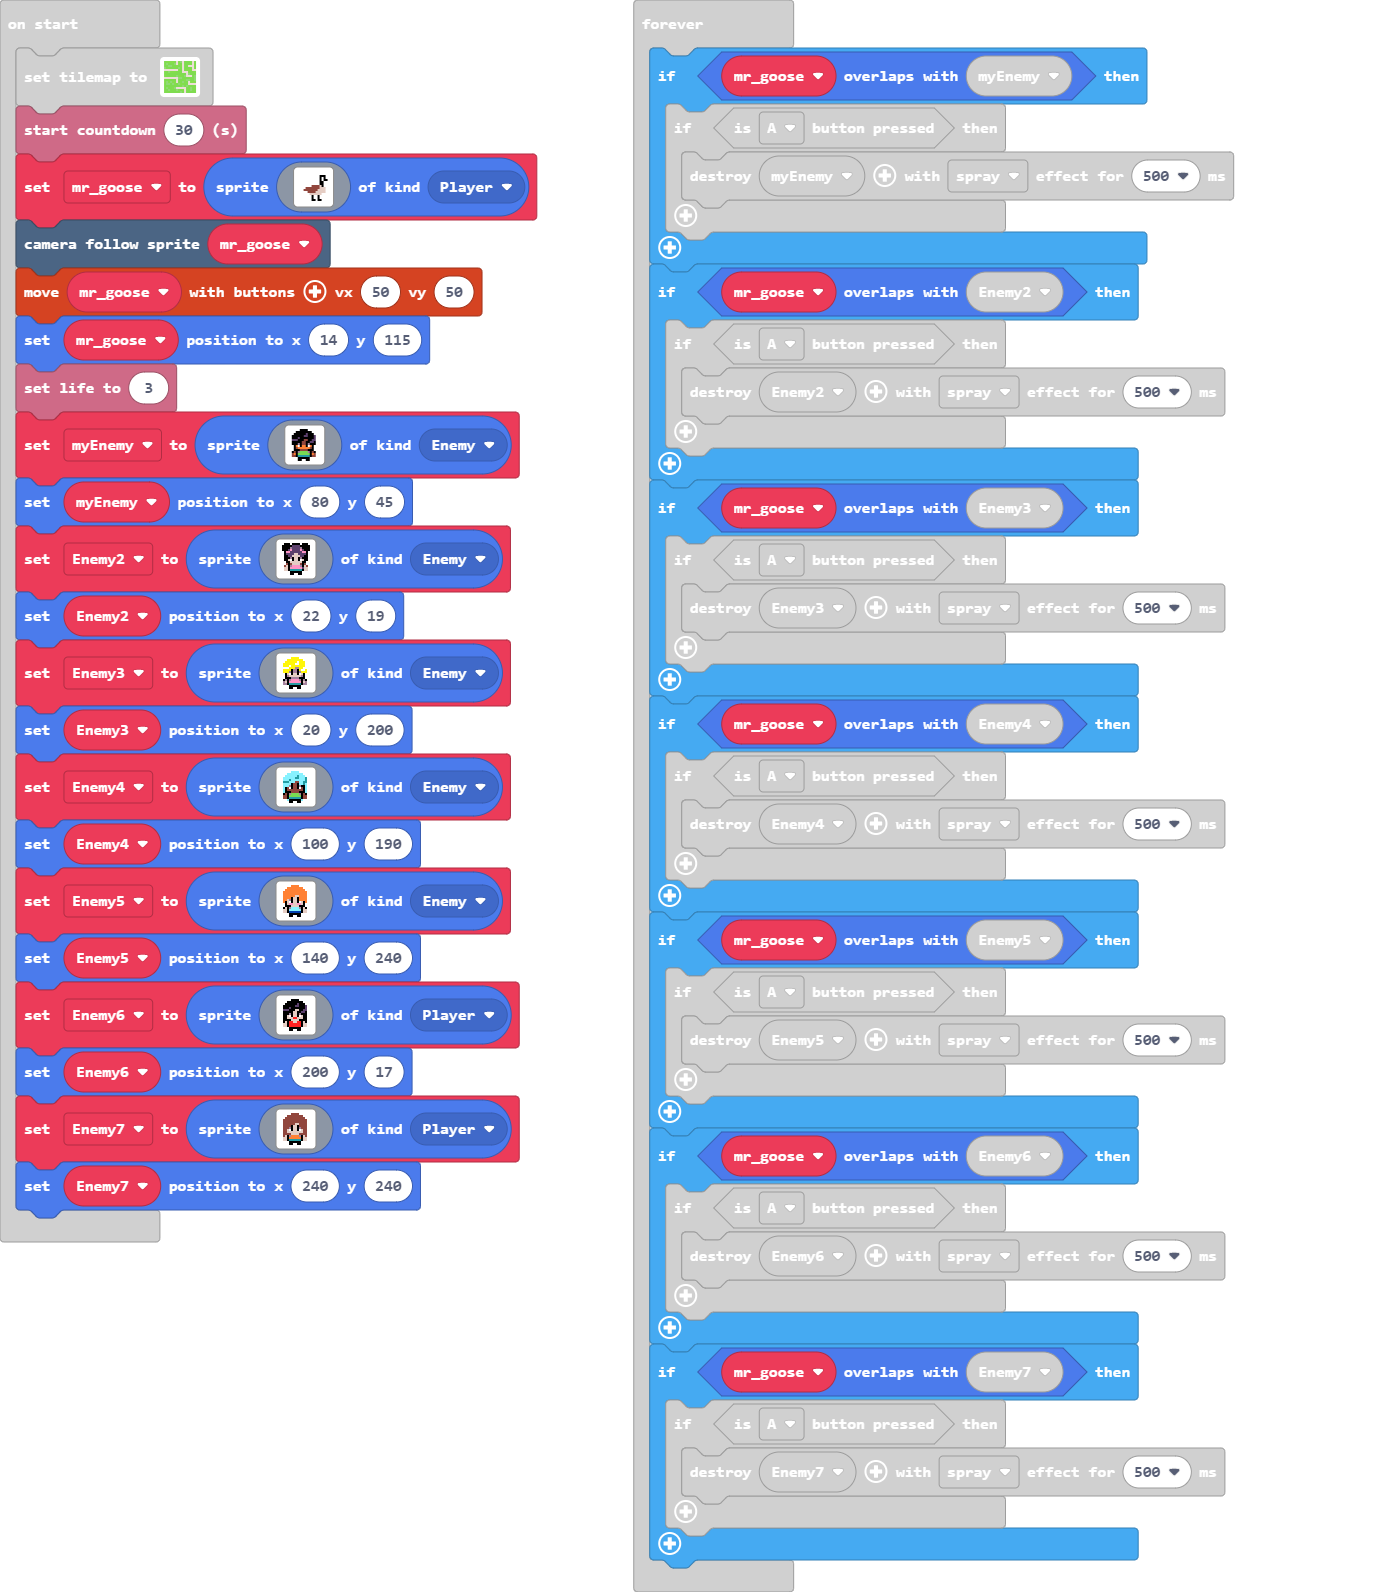
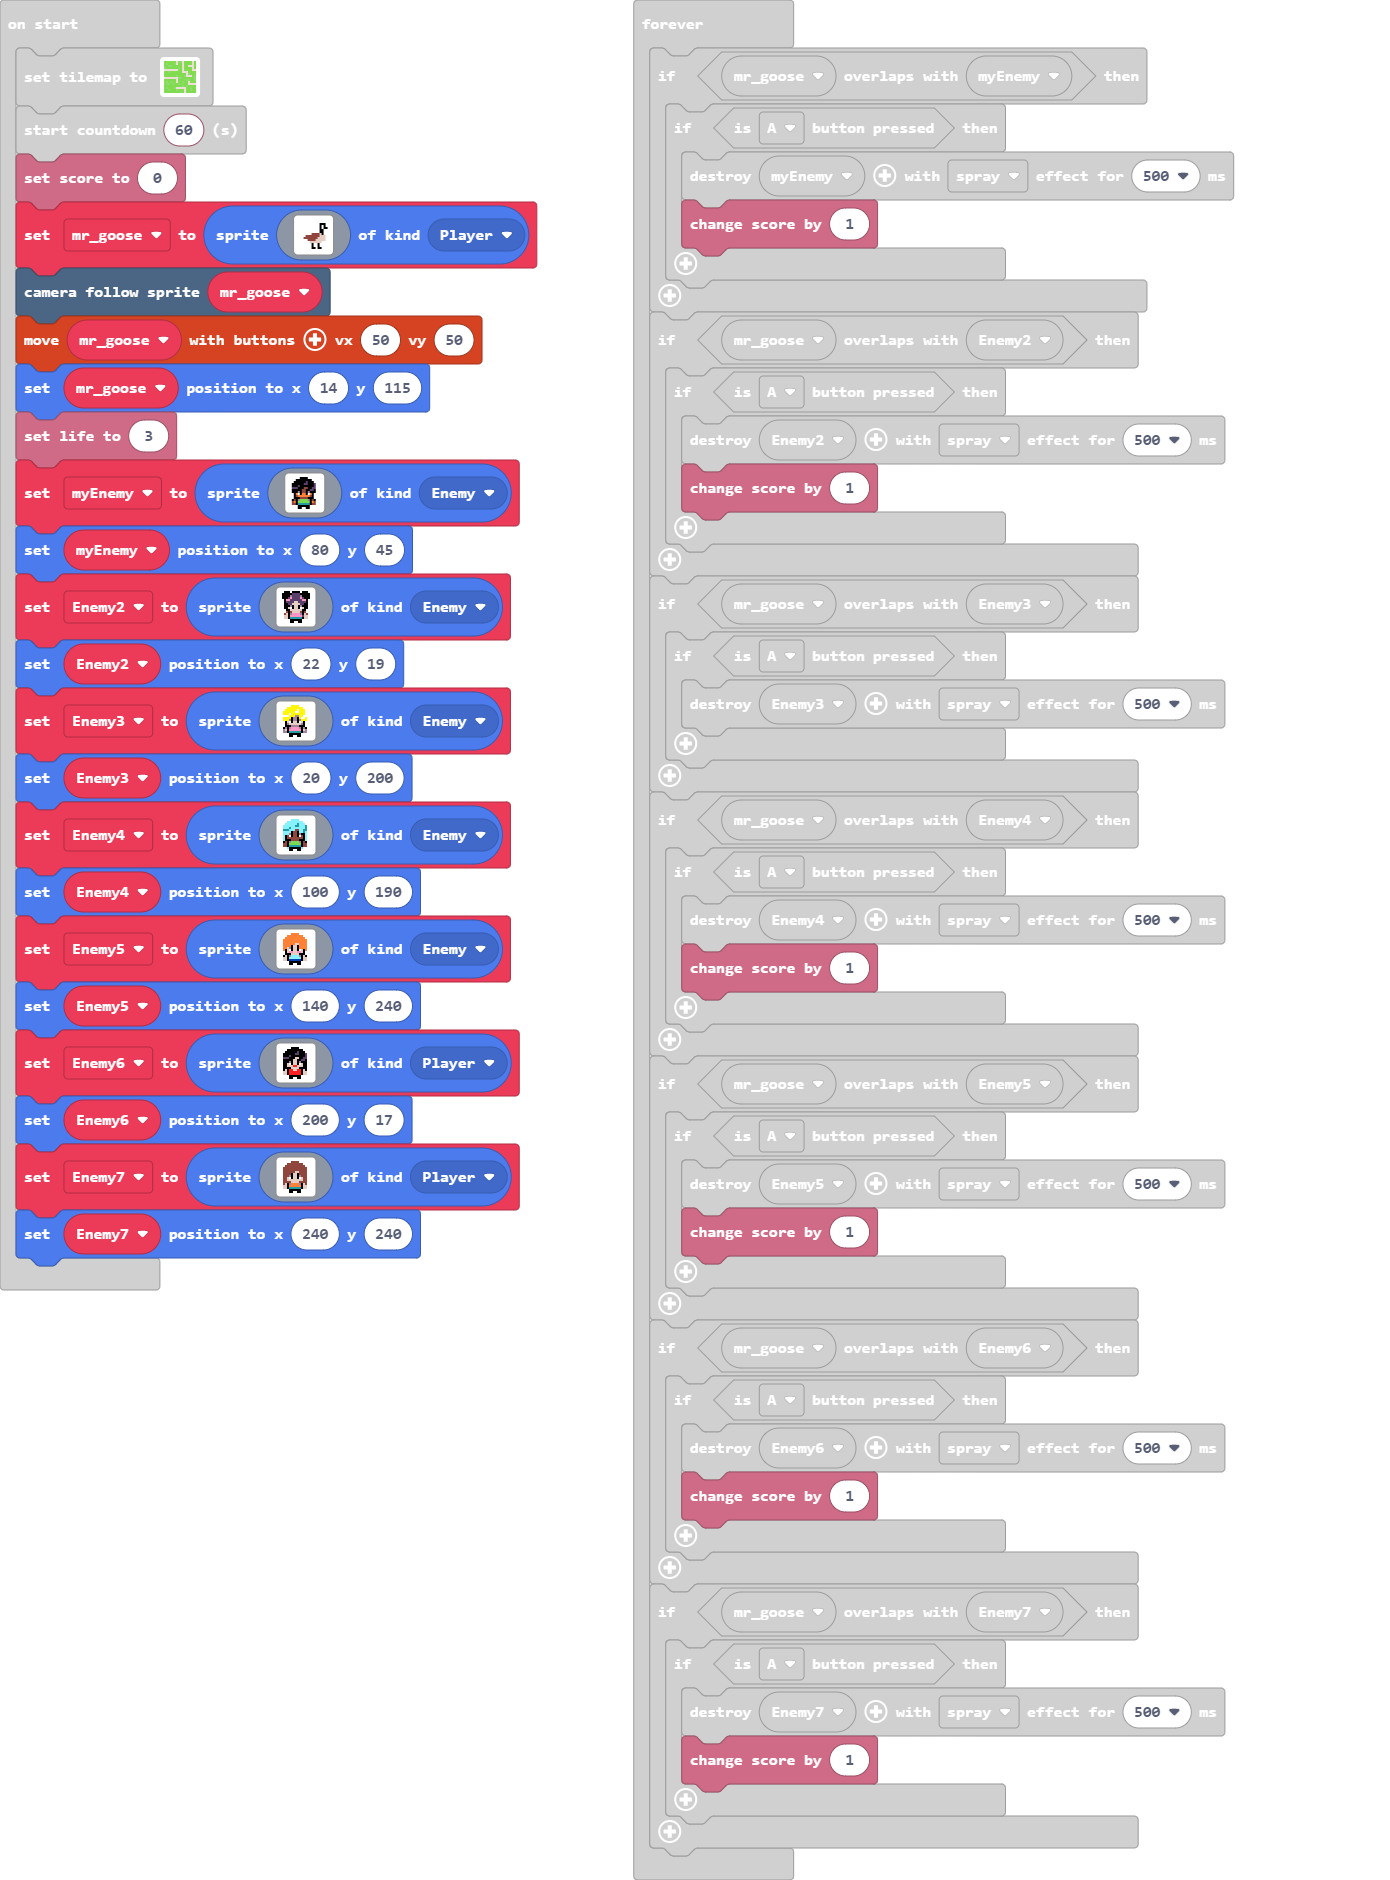
Update main.blocks, main.ts

diff --git a/main.ts b/main.ts
@@ -21,7 +21,8 @@ tiles.setTilemap(tiles.createTilemap(hex`100010000201010101010401030402020202040
     . . . . . . . . . . 2 . . . . . 
     . . . . . . . . . . 2 . . . . . 
     `, [myTiles.transparency16,sprites.castle.tileGrass3,sprites.castle.tileGrass1,sprites.castle.tileGrass2,sprites.builtin.brick], TileScale.Sixteen))
-info.startCountdown(30)
+info.startCountdown(60)
+info.setScore(0)
 let mr_goose = sprites.create(img`
     . . . . . . . . . . . . . . . . 
     . . . . . . . . . . . . . . . . 
@@ -181,11 +182,13 @@ forever(function () {
     if (mr_goose.overlapsWith(myEnemy)) {
         if (controller.A.isPressed()) {
             myEnemy.destroy(effects.spray, 500)
+            info.changeScoreBy(1)
         }
     }
     if (mr_goose.overlapsWith(Enemy2)) {
         if (controller.A.isPressed()) {
             Enemy2.destroy(effects.spray, 500)
+            info.changeScoreBy(1)
         }
     }
     if (mr_goose.overlapsWith(Enemy3)) {
@@ -196,21 +199,25 @@ forever(function () {
     if (mr_goose.overlapsWith(Enemy4)) {
         if (controller.A.isPressed()) {
             Enemy4.destroy(effects.spray, 500)
+            info.changeScoreBy(1)
         }
     }
     if (mr_goose.overlapsWith(Enemy5)) {
         if (controller.A.isPressed()) {
             Enemy5.destroy(effects.spray, 500)
+            info.changeScoreBy(1)
         }
     }
     if (mr_goose.overlapsWith(Enemy6)) {
         if (controller.A.isPressed()) {
             Enemy6.destroy(effects.spray, 500)
+            info.changeScoreBy(1)
         }
     }
     if (mr_goose.overlapsWith(Enemy7)) {
         if (controller.A.isPressed()) {
             Enemy7.destroy(effects.spray, 500)
+            info.changeScoreBy(1)
         }
     }
 })
